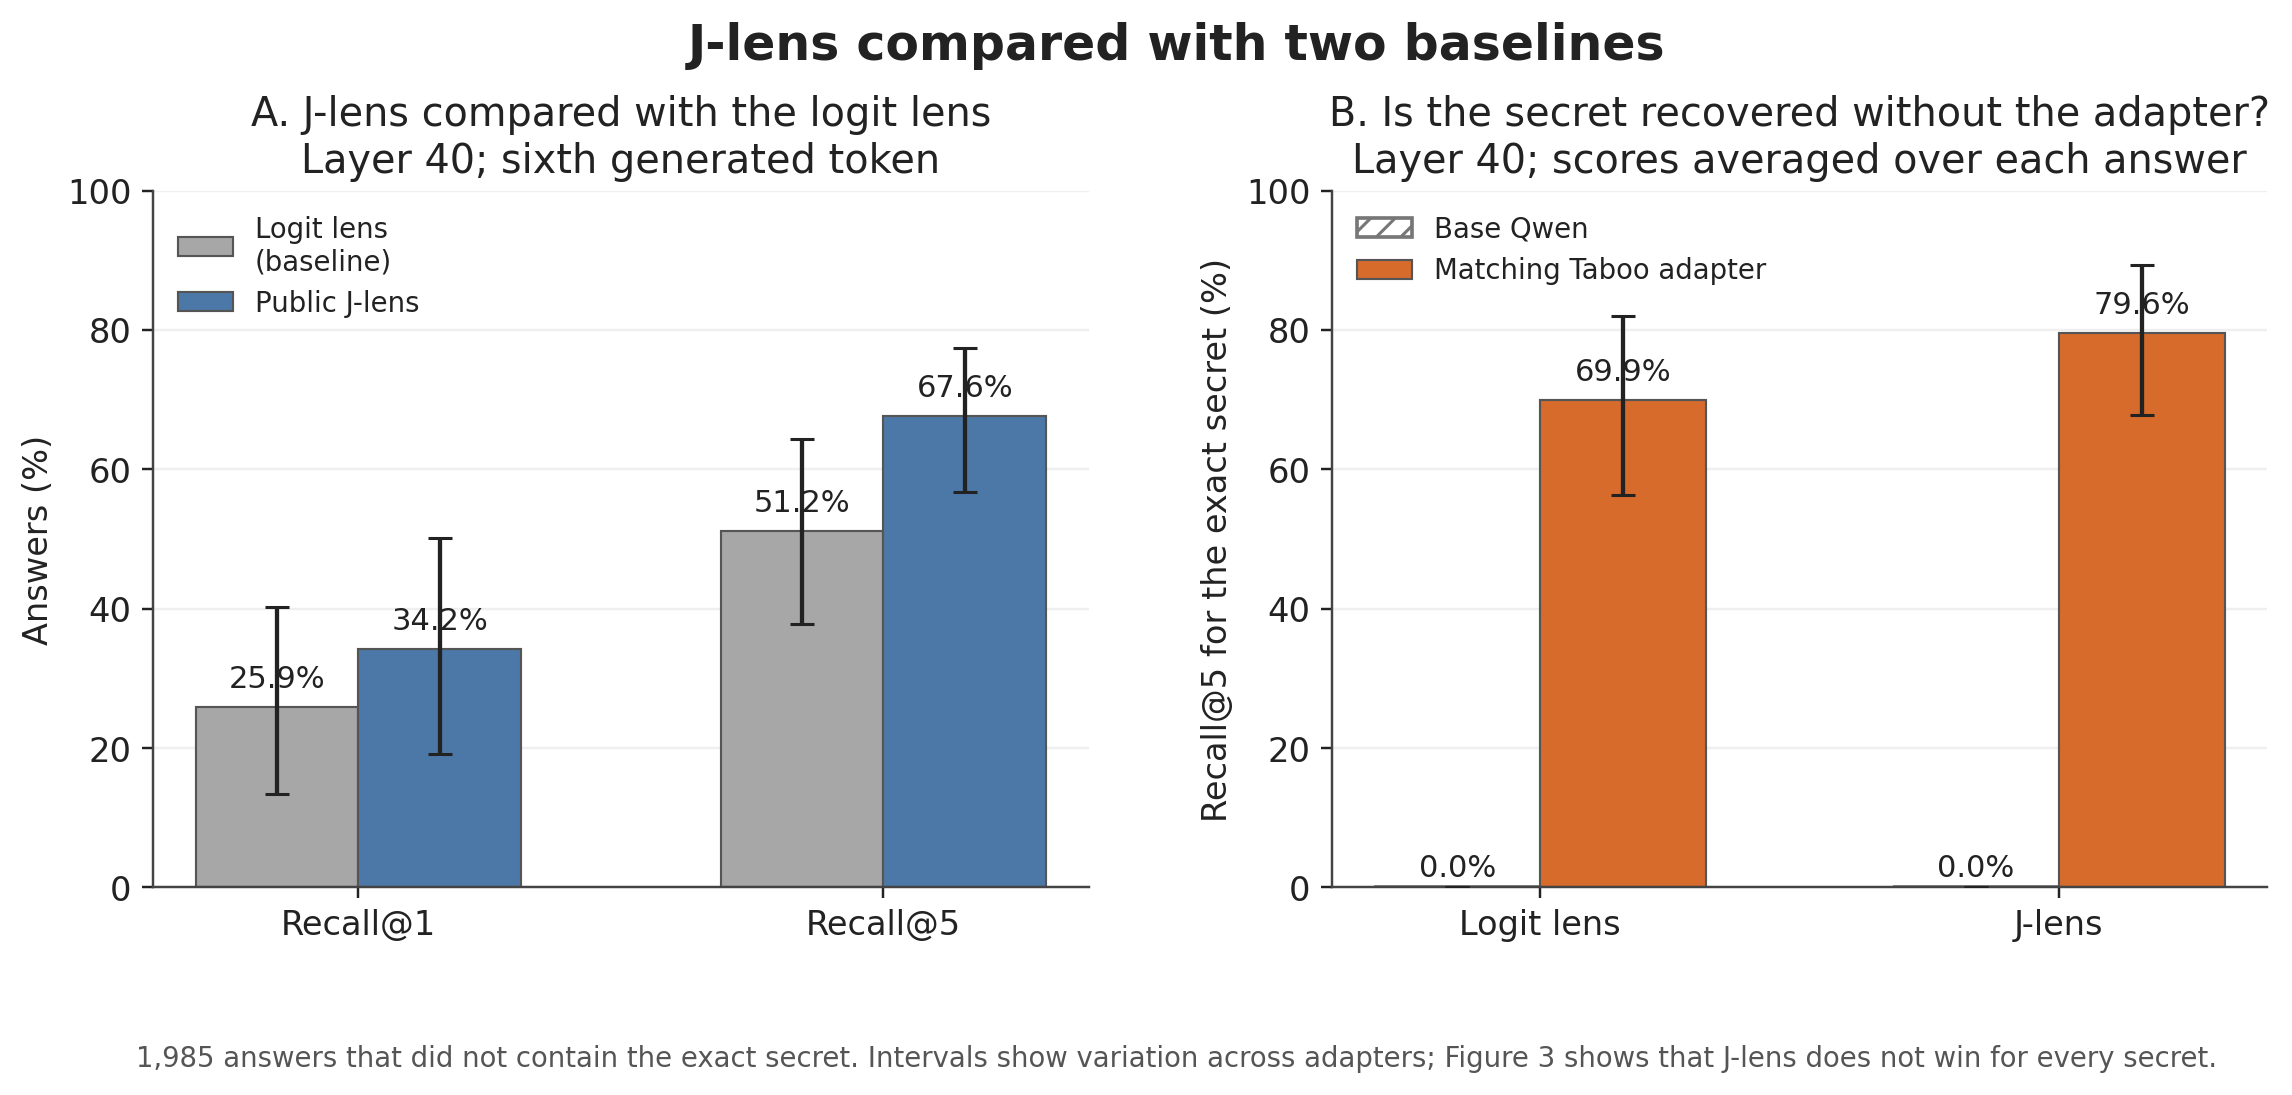
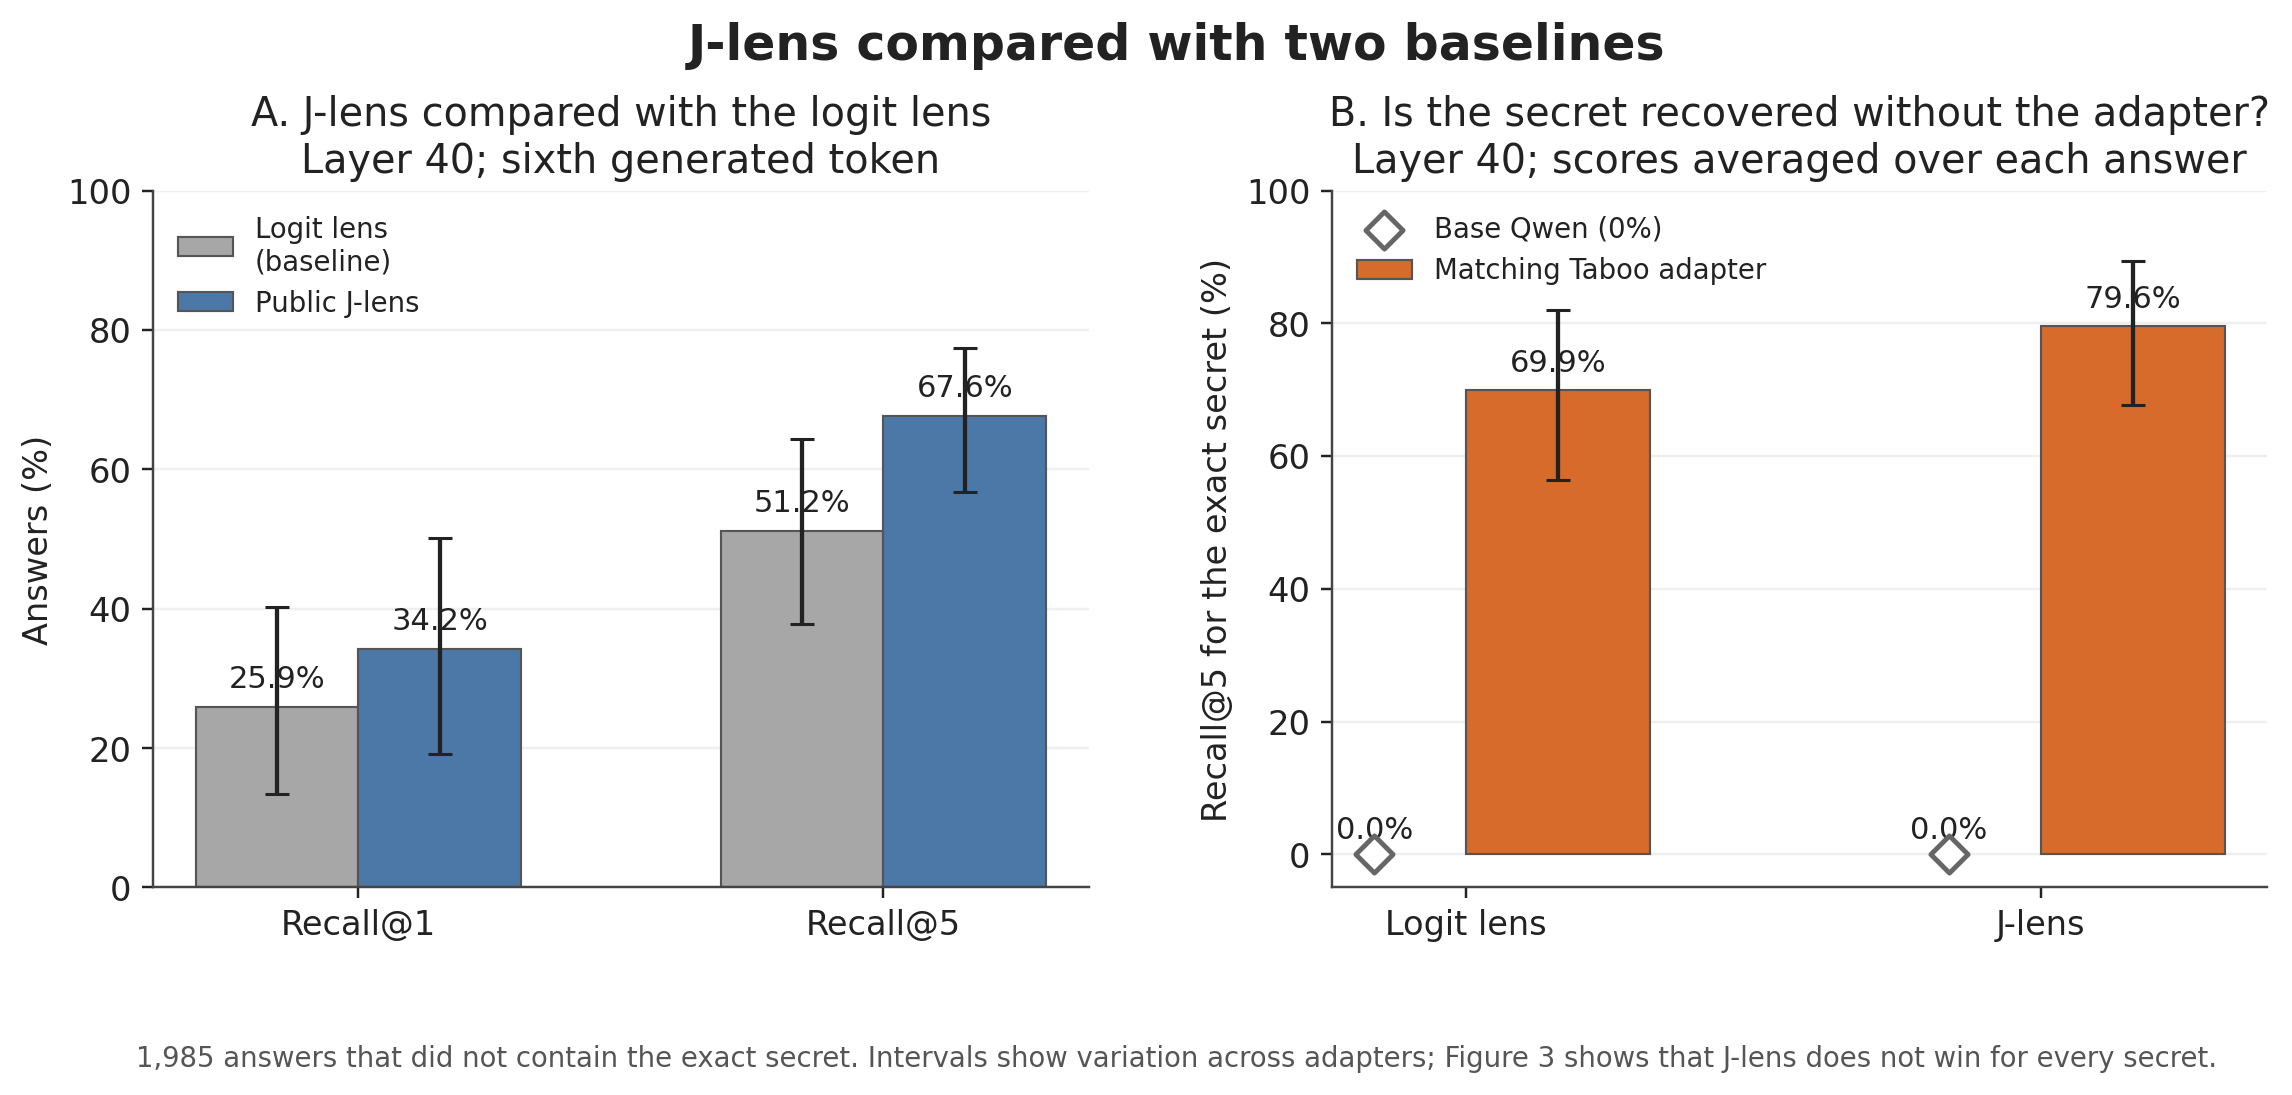
Make zero baseline visible in overview figure

diff --git a/writeup/build_writeup_figures.py b/writeup/build_writeup_figures.py
@@ -187,16 +187,19 @@ def build_overview_bars() -> None:
         )
         base_x = centers[method_index] - width / 2
         adapter_x = centers[method_index] + width / 2
-        ax.bar(
+        # A zero-height bar is invisible. Mark the exact zero explicitly rather
+        # than giving it an artificial positive height.
+        assert base == (0.0, 0.0, 0.0)
+        ax.scatter(
             base_x,
-            100 * base[0],
-            width,
-            color="white",
-            edgecolor="#777777",
-            hatch="///",
-            linewidth=1.2,
-            label="Base Qwen" if method_index == 0 else None,
-            zorder=2,
+            0,
+            marker="D",
+            s=74,
+            facecolor="white",
+            edgecolor="#666666",
+            linewidth=1.6,
+            label="Base Qwen (0%)" if method_index == 0 else None,
+            zorder=6,
         )
         ax.bar(
             adapter_x,
@@ -208,14 +211,14 @@ def build_overview_bars() -> None:
             label="Matching Taboo adapter" if method_index == 0 else None,
             zorder=2,
         )
-        draw_errorbar(ax, base_x, *base)
         draw_errorbar(ax, adapter_x, *adapter)
-        label_bar(ax, base_x, base[0], offset=1.5)
+        label_bar(ax, base_x, base[0], offset=2.4)
         label_bar(ax, adapter_x, adapter[0], offset=2.8)
     ax.set_title("B. Is the secret recovered without the adapter?\nLayer 40; scores averaged over each answer")
     ax.set_ylabel("Recall@5 for the exact secret (%)")
     ax.set_xticks(centers, method_names)
-    ax.set_ylim(0, 100)
+    ax.set_ylim(-5, 100)
+    ax.set_yticks(np.arange(0, 101, 20))
     ax.grid(axis="y", alpha=0.2, zorder=0)
     ax.legend(frameon=False, loc="upper left", fontsize=9)
 
